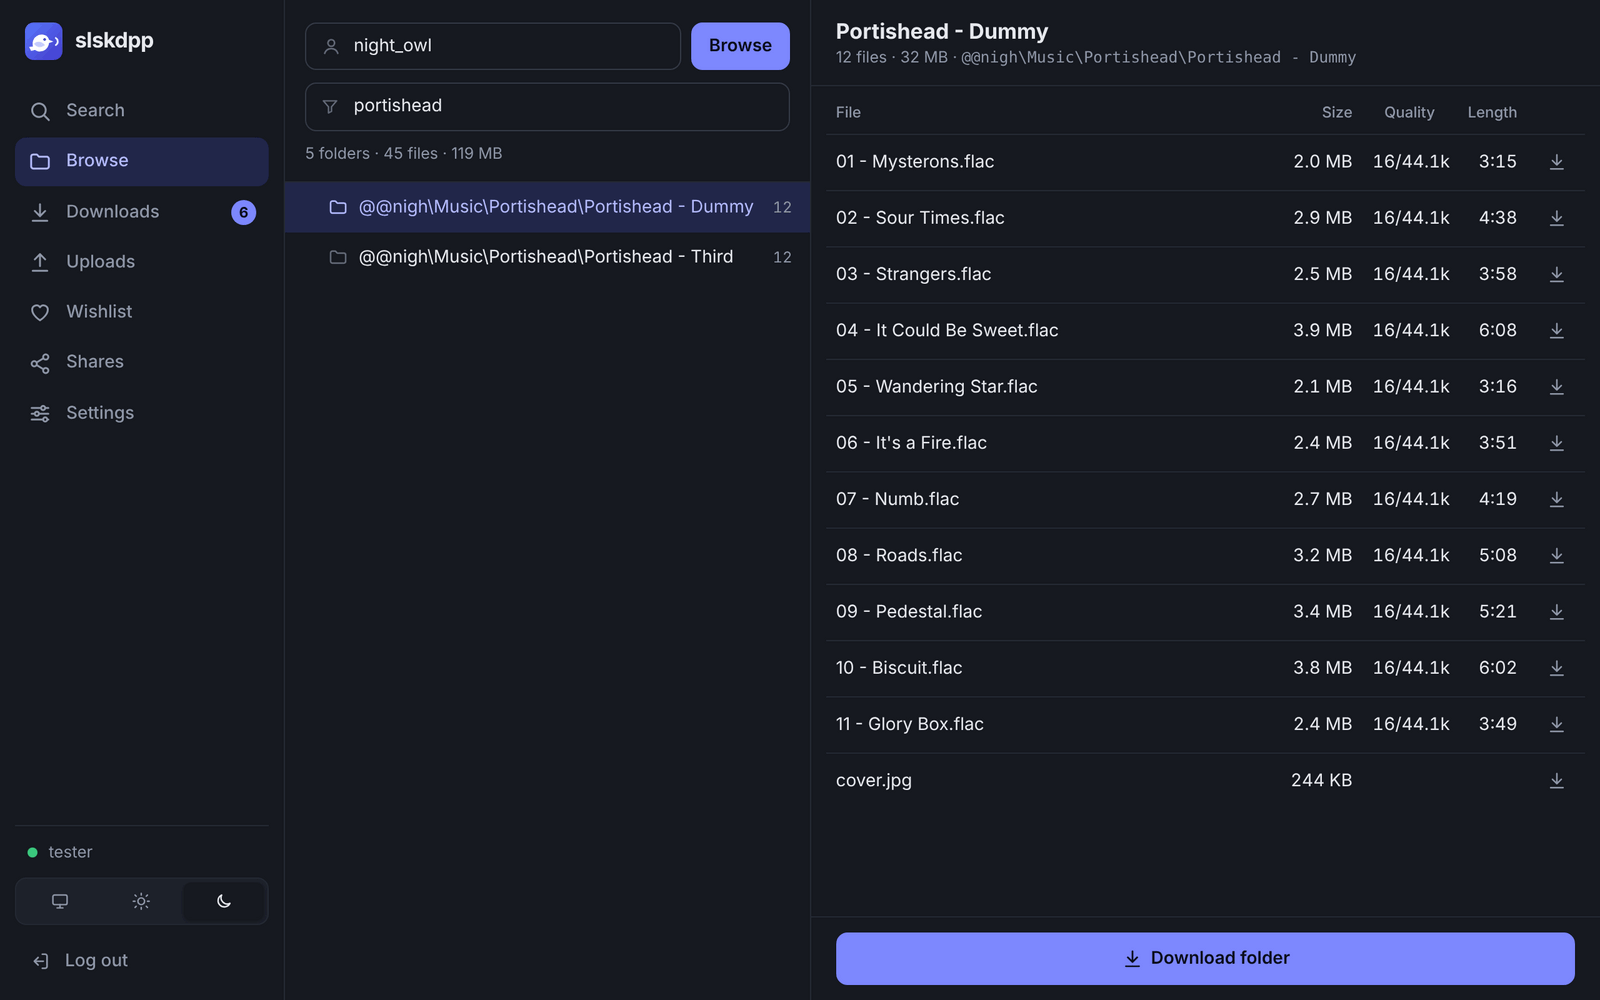
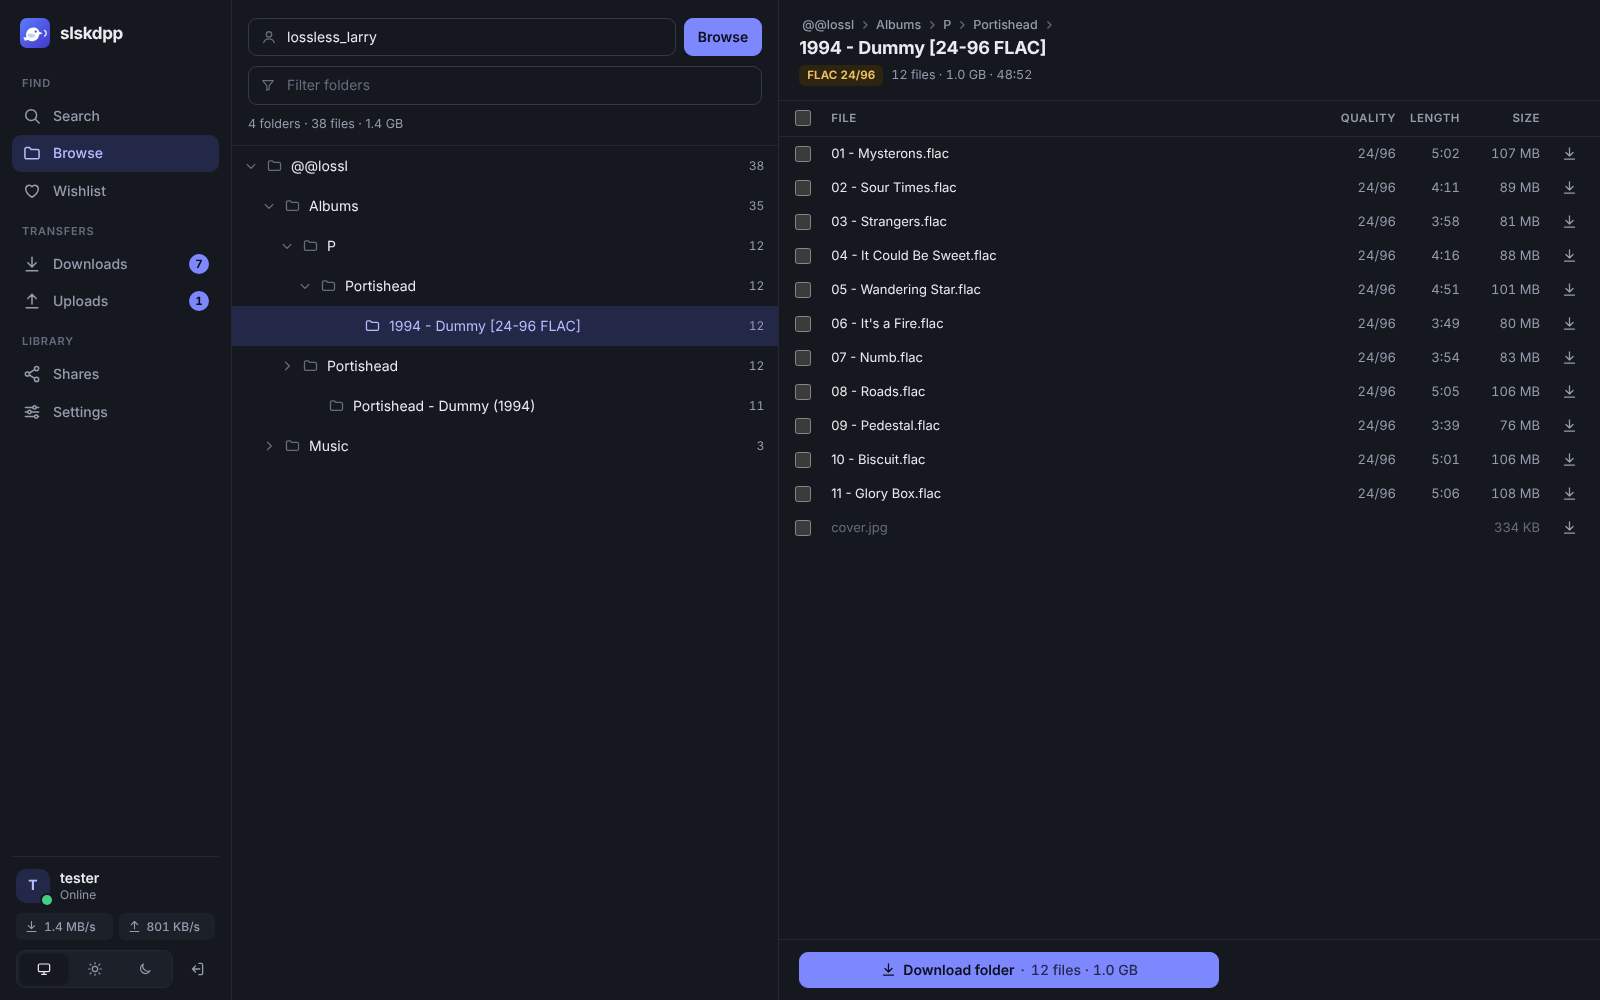
Describe the new search UI and refresh the screenshots
Claude-Session: https://claude.ai/code/session_013aLp18fenEsJfvCu1xom75

diff --git a/README.md b/README.md
@@ -154,20 +154,32 @@ files are never shared. Changes on disk are picked up as they happen.
 
 ## The web UI
 
-- **Search.** Results arrive live and are grouped into albums, with format,
-  bitrate (or bit depth and sample rate for lossless files), size and length.
-  You can filter, open an album to see each user's copy, download a folder or
-  a single file, browse the user, or put the search on the wishlist.
-- **Browse.** A user's whole share as a folder tree you can filter.
-- **Downloads.** Progress grouped by folder, place in the uploader's queue,
-  retry countdowns, and which source is being tried. Files can be cancelled,
-  retried or cleared.
+- **Search.** Results arrive live in a sortable table, grouped into albums
+  across users. Each row shows the quality at a glance (such as `FLAC 24/96`
+  or `MP3 320`, coloured by tier), track count, size, total length, the best
+  user and how many others have it, their upload speed and whether a slot is
+  free. Open a row to compare every user's copy, see the tracklist and tick
+  the files you want, or download the whole folder in one click. Filter by
+  text (`-word` leaves things out), format, quality, free slots, track count
+  and user; turn off album grouping to see every user's folder on its own; or
+  expand all results at once. Files you already have queued or downloaded are
+  marked.
+- **Browse.** A user's whole share as a folder tree you can filter, with the
+  same file list and selection as search.
+- **Downloads.** Progress grouped by folder with time left, place in the
+  uploader's queue, retry countdowns, and which source is being tried. Filter
+  by active, done or failed; cancel, retry or clear files.
 - **Uploads.** Who is downloading from you, the queue in order, and slots in
   use.
 - **Wishlist.** Saved searches that keep running; see [below](#wishlist).
 - **Shares.** Folders you share, their totals, and rescans.
 - **Settings.** API keys, hooks with a test button, and account
   status.
+
+Keyboard shortcuts on the search page: <kbd>/</kbd> focuses the search box,
+<kbd>↑</kbd> <kbd>↓</kbd> (or <kbd>j</kbd> <kbd>k</kbd>) move through results,
+<kbd>→</kbd> and <kbd>←</kbd> open and close one, and <kbd>d</kbd> downloads
+it.
 
 It works on phones too. The theme follows your system, or you can pick light or
 dark in the sidebar (under **More** on phones).

diff --git a/CHANGELOG.md b/CHANGELOG.md
@@ -1,5 +1,25 @@
 # Changelog
 
+## [Unreleased]
+
+### Web UI
+
+- Search results are a sortable table showing, for each album, its quality
+  (format with bit depth and sample rate, or bitrate), track count, size, total
+  length, user and other sources, upload speed and slot or queue.
+- Albums open in place to show every source, the folder path and the
+  tracklist. Tick files to download only those, or expand all results at once.
+- A text filter with `-word` exclusions, quality tiers (hi-res, lossless,
+  320/256/192 kbps), and a switch to list every user's folder separately
+  instead of grouping albums. Users can be hidden from a result.
+- Search results and Browse mark files already queued or downloaded.
+- Keyboard shortcuts on the search page, and a list of recent searches when
+  no search is open.
+- Downloads can be filtered by state and show time left.
+- Toasts confirm queued downloads; a banner shows when the Soulseek server
+  connection is down; the sidebar shows live transfer speeds.
+- The Inter typeface is bundled, so the UI looks the same everywhere.
+
 ## [0.1.0] - 2026-10-31
 
 The first release. slskdpp is young: it is well covered by tests and has run
